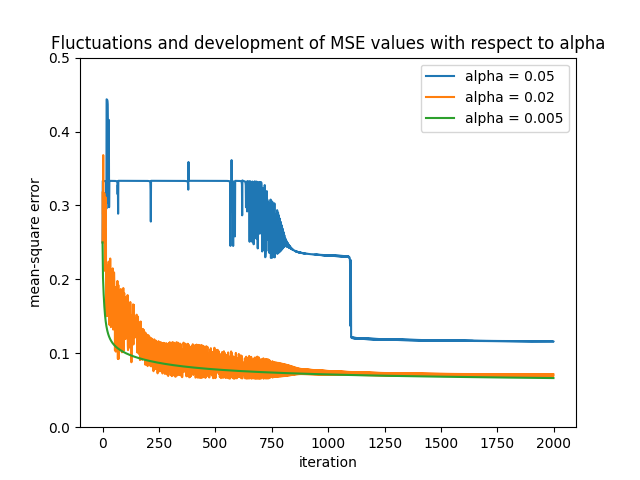
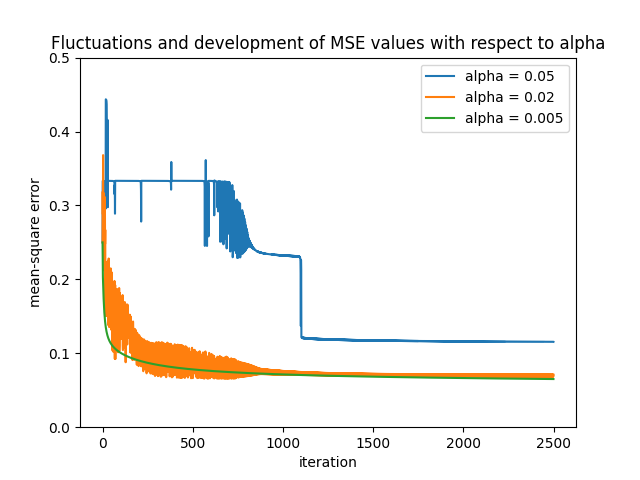
2500 iterations

diff --git a/iris.py b/iris.py
@@ -256,7 +256,7 @@ def problem2(x,t,alpha,iterations):
     print("confusion matrix for training set:\n",confusion_train)
 
 if __name__ == '__main__':
-    iterations = 2000
+    iterations = 2500
     alpha = 0.005
     x,t = get_data()
     

diff --git a/wovels.py b/wovels.py
@@ -292,4 +292,4 @@ def problem_2(data,classname):
 if __name__ == '__main__':
     data, classname = get_data()
     problem_1(data,classname)
-    problem_2(data,classname)
+    #problem_2(data,classname)
